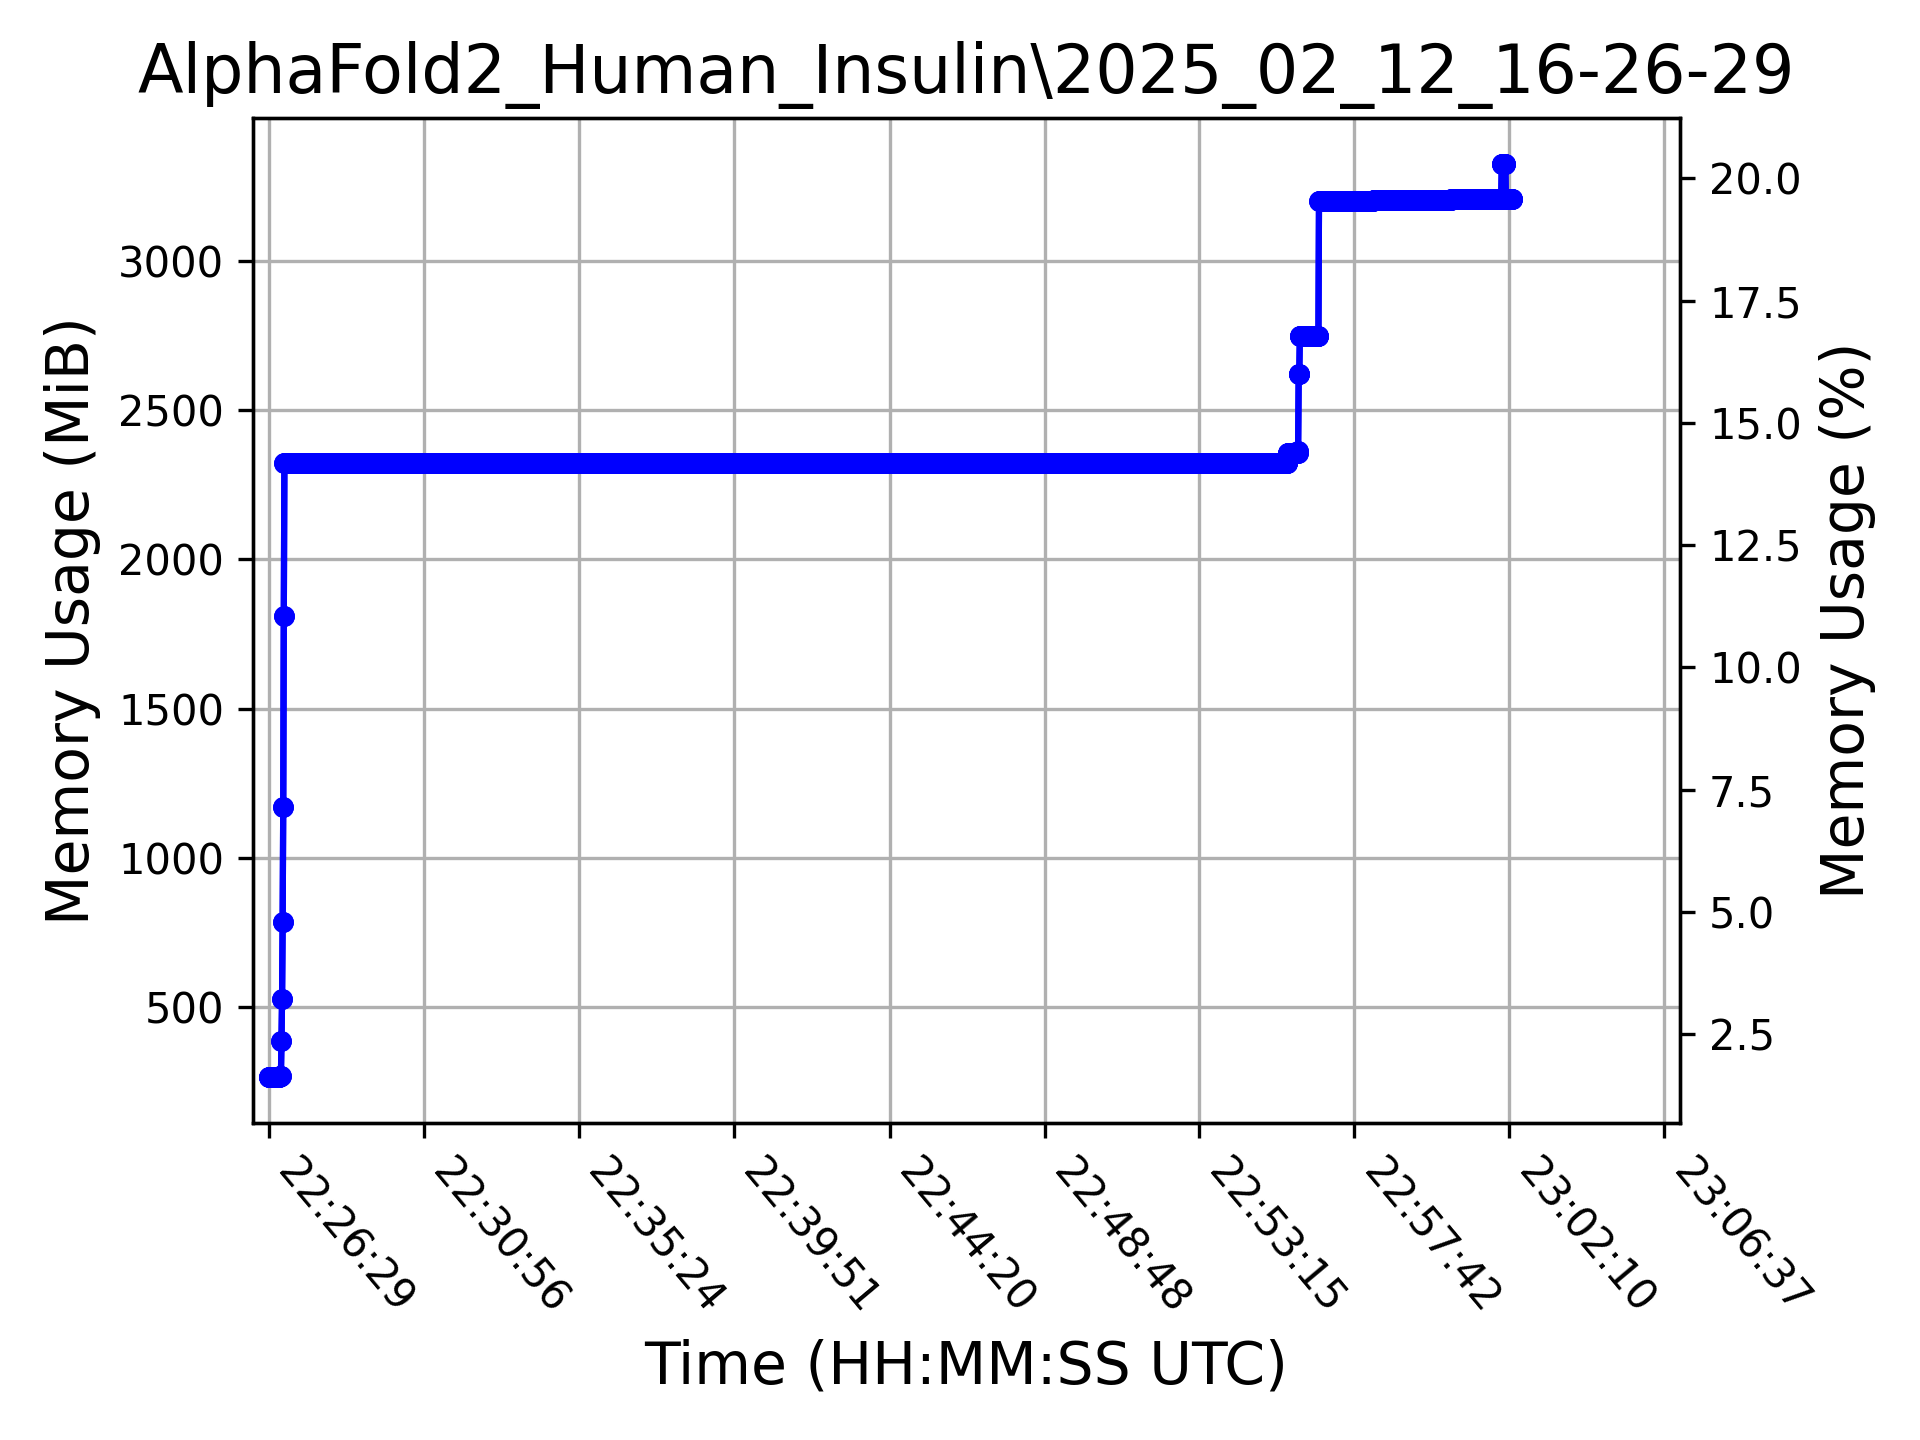
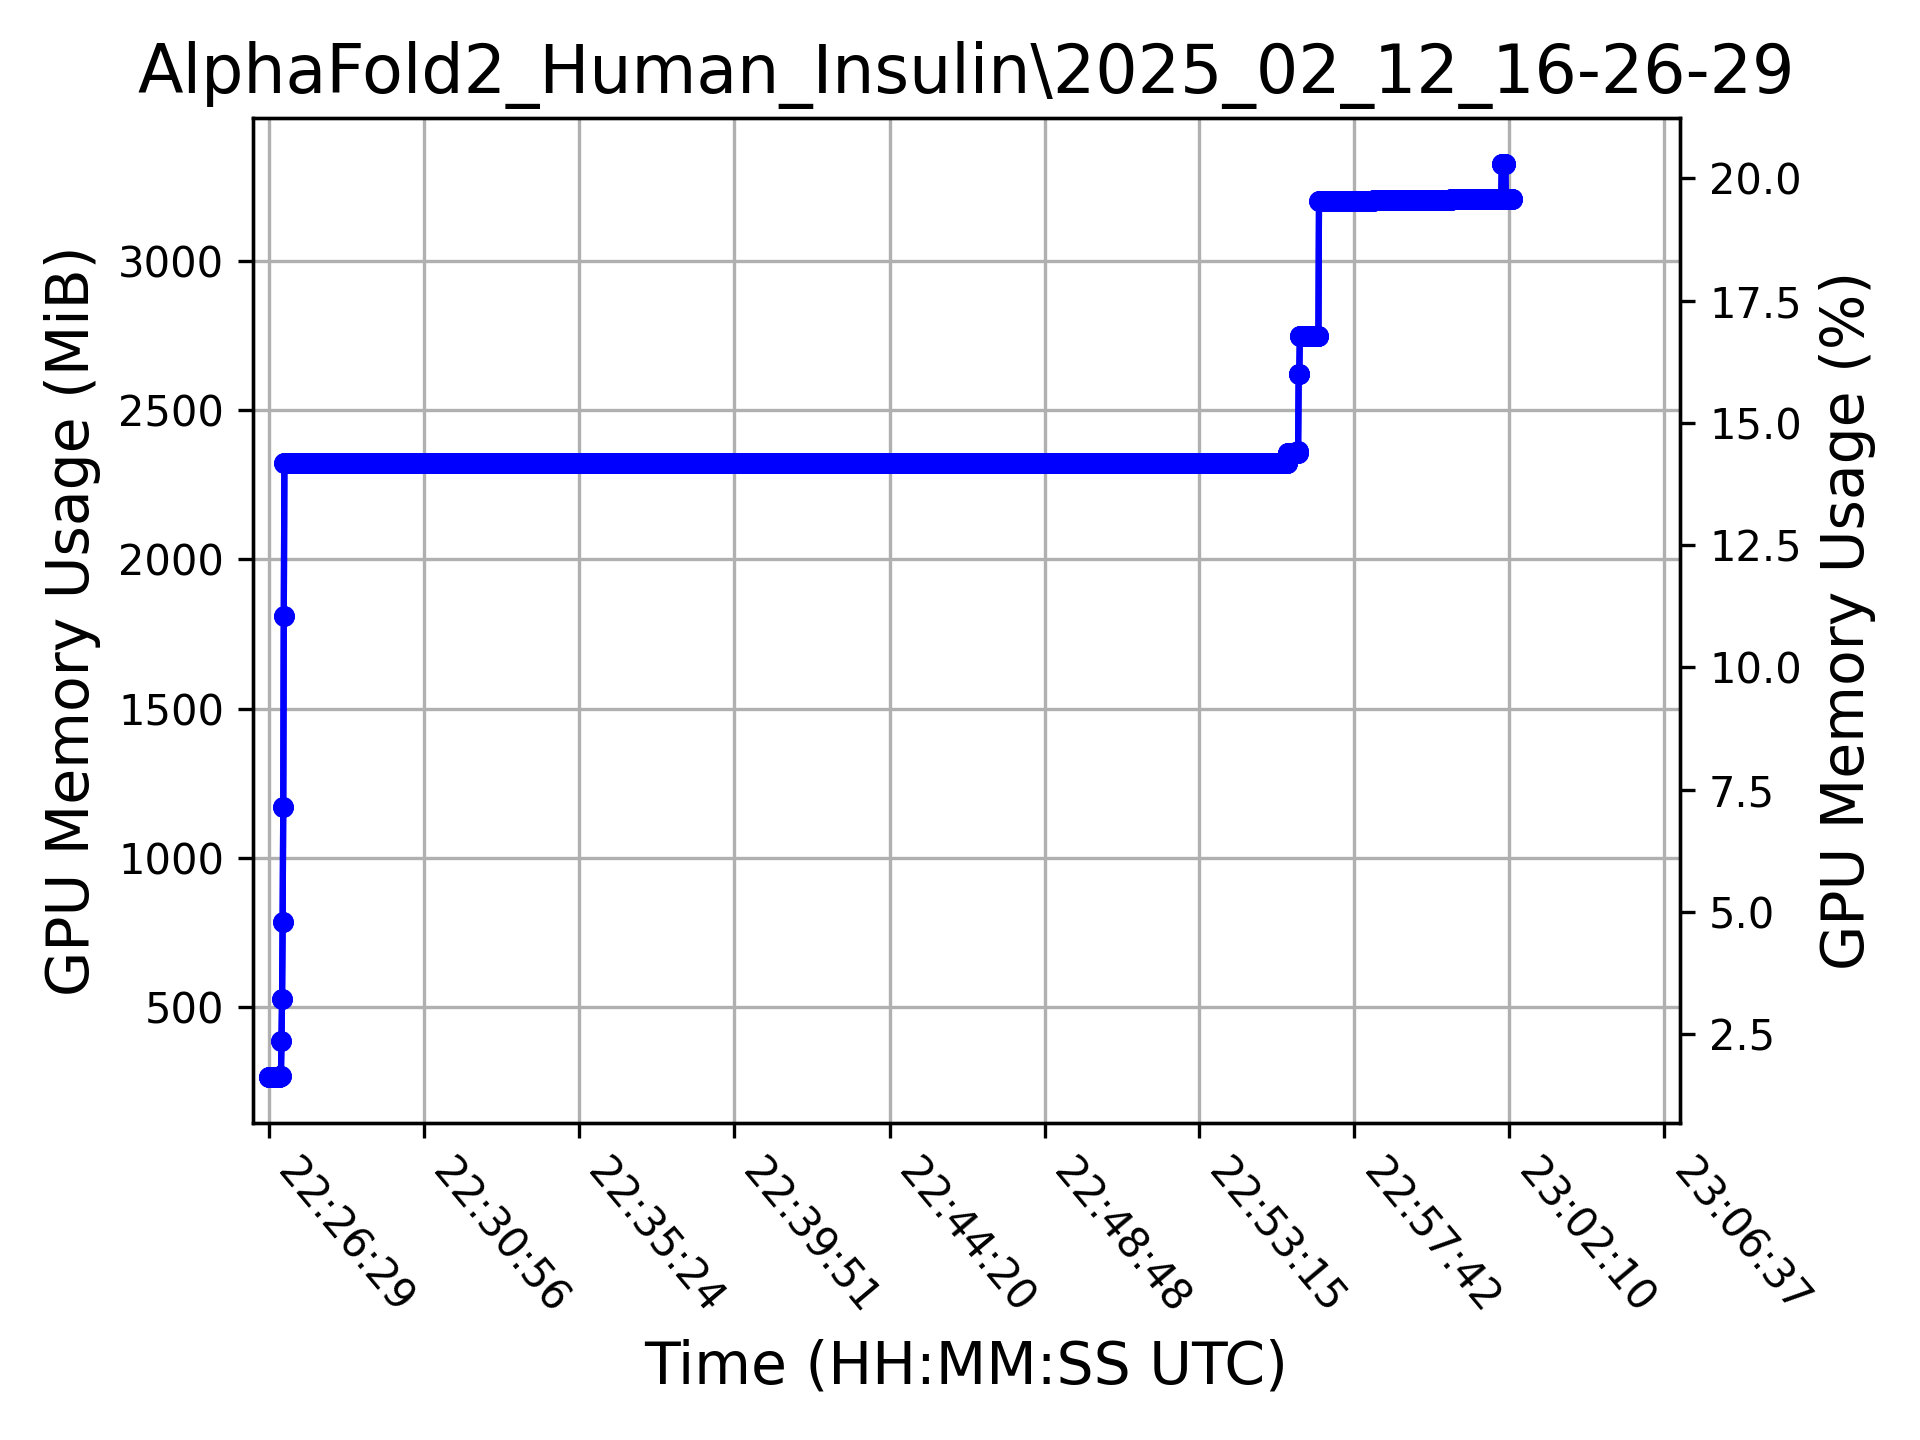
Fix GPU memory plot axis titles

Changed region(s): [[0.0, 0.1875, 0.0625, 0.6875], [0.9375, 0.1875, 0.9688, 0.6875]]

diff --git a/src/plot_metrics.py b/src/plot_metrics.py
@@ -468,8 +468,8 @@ class Graphing:
                 "mem_mib",
                 "mem_perc",
                 self.graph_title,
-                "Memory Usage (MiB)",
-                "Memory Usage (%)",
+                "GPU Memory Usage (MiB)",
+                "GPU Memory Usage (%)",
                 f"gpu{gpu_df['id'].iloc[0]}_memory.png",
             )
 
